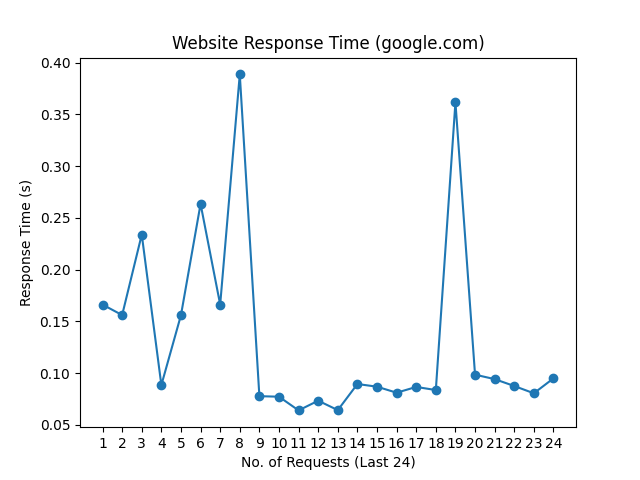
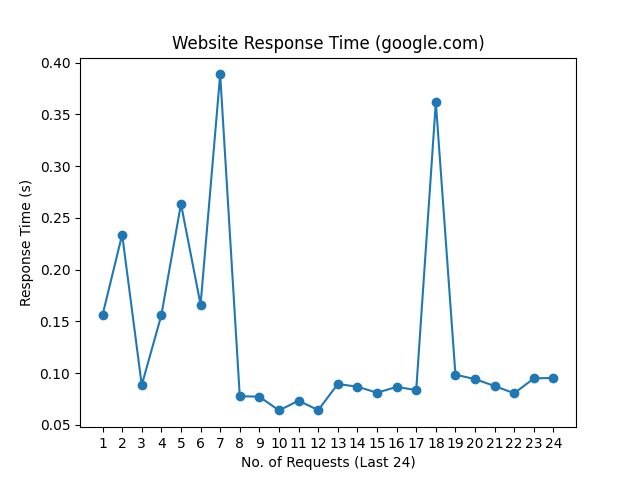
update README.md, history and graph

Changed region(s): [[0.1562, 0.125, 0.875, 0.875]]

diff --git a/README.md b/README.md
@@ -1,10 +1,10 @@
 # Web Monitoring
 
-Last Checked: 08/06/2024 08:17
+Last Checked: 09/06/2024 08:19
 
 | Website | Response Time (s) | Status | Avg Uptime (%) |
 |---------|-------------------|--------|----------------|
 | www.thiswebsiteisdown.net | 0 <br> <img src="graph/thiswebsiteisdown.net.png" alt="Graph" width="200" height="200">  | ❌ Down | 0.00 |
-| www.netflix.com | 0.960012 <br> <img src="graph/netflix.com.png" alt="Graph" width="200" height="200">  | ✅ Up | 100.00 |
-| www.google.com | 0.094928 <br> <img src="graph/google.com.png" alt="Graph" width="200" height="200">  | ✅ Up | 100.00 |
-| www.facebook.com | 0.772138 <br> <img src="graph/facebook.com.png" alt="Graph" width="200" height="200">  | ✅ Up | 100.00 |
+| www.netflix.com | 1.017478 <br> <img src="graph/netflix.com.png" alt="Graph" width="200" height="200">  | ✅ Up | 100.00 |
+| www.google.com | 0.095313 <br> <img src="graph/google.com.png" alt="Graph" width="200" height="200">  | ✅ Up | 100.00 |
+| www.facebook.com | 1.037756 <br> <img src="graph/facebook.com.png" alt="Graph" width="200" height="200">  | ✅ Up | 100.00 |
